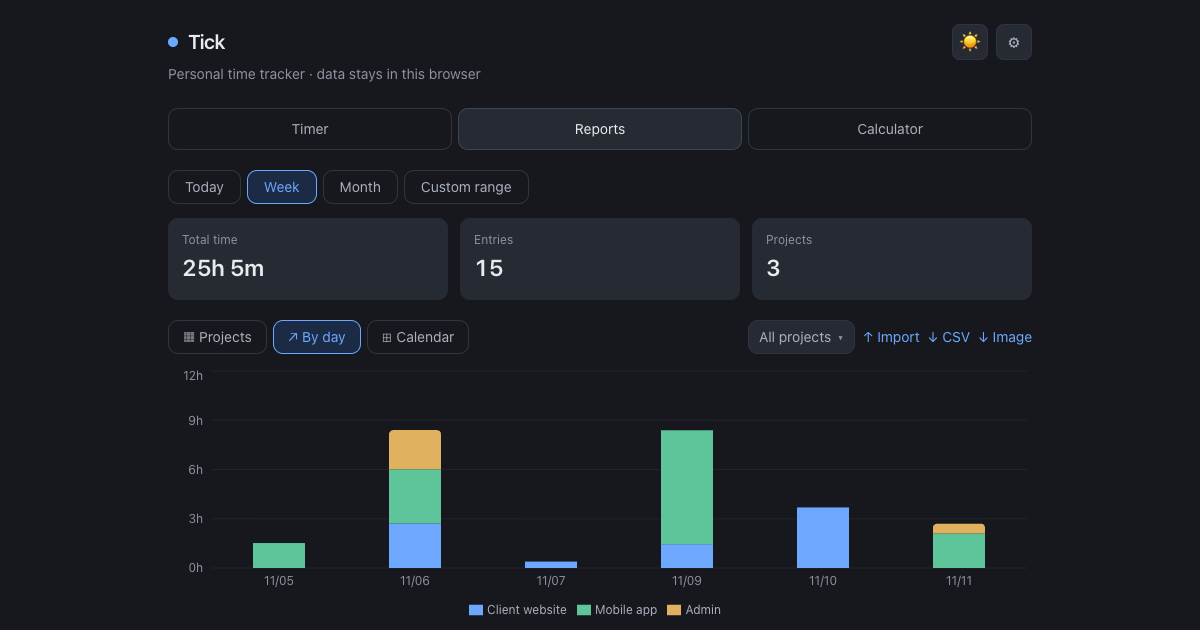
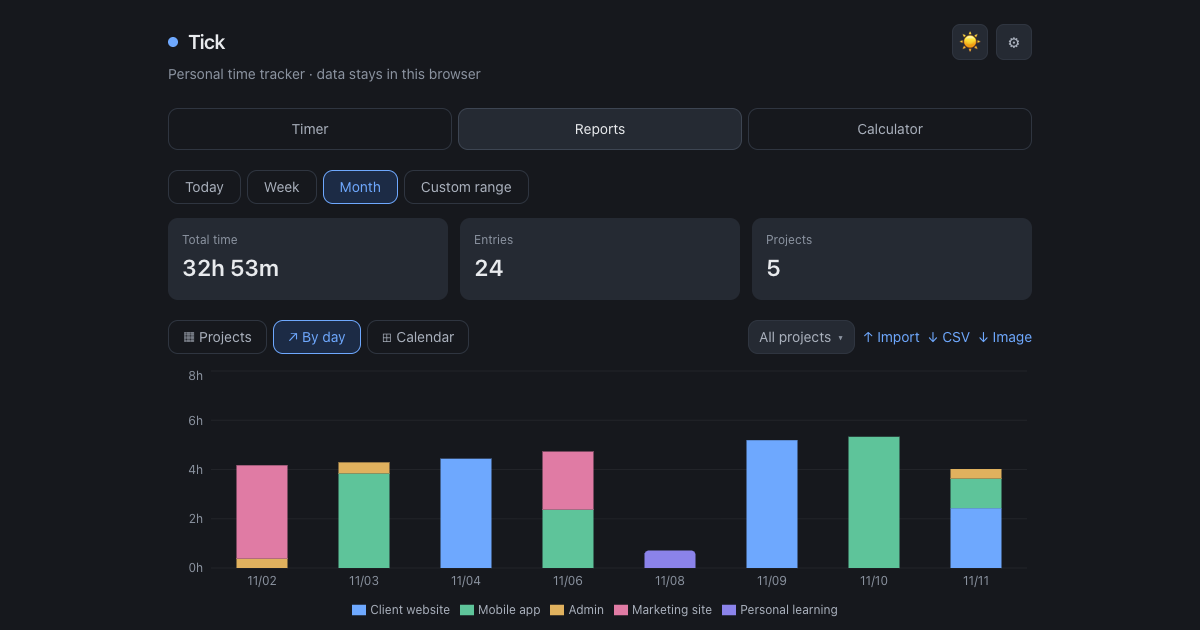
expand demo data to five projects and four months

diff --git a/src/utils/demo.ts b/src/utils/demo.ts
@@ -10,58 +10,182 @@ const PROJECTS: Project[] = [
   { id: 'demo-p1', name: 'Client website', color: PALETTE[0] },
   { id: 'demo-p2', name: 'Mobile app', color: PALETTE[1] },
   { id: 'demo-p3', name: 'Admin', color: PALETTE[2] },
+  { id: 'demo-p4', name: 'Marketing site', color: PALETTE[4] },
+  { id: 'demo-p5', name: 'Personal learning', color: PALETTE[3] },
 ]
 
-// [projectId, description, tags]
-const TASKS: [string, string, string[]][] = [
-  ['demo-p1', 'Homepage hero redesign', ['design']],
-  ['demo-p1', 'Fix checkout form validation', ['bug']],
-  ['demo-p1', 'Review pull requests', ['review']],
-  ['demo-p1', 'Blog page performance', ['frontend']],
-  ['demo-p2', 'Onboarding screens', ['design']],
-  ['demo-p2', 'Push notifications API', ['backend']],
-  ['demo-p2', 'Release 1.4 testing', ['qa']],
-  ['demo-p2', 'Offline sync bug', ['bug']],
-  ['demo-p3', 'Weekly planning', ['meeting']],
-  ['demo-p3', 'Invoices and email', []],
-  ['demo-p3', 'Client call', ['meeting']],
-]
+// Per-project task pool: [description, tags]
+const TASKS: Record<string, [string, string[]][]> = {
+  'demo-p1': [
+    ['Homepage hero redesign', ['design']],
+    ['Fix checkout form validation', ['bug']],
+    ['Review pull requests', ['review']],
+    ['Blog page performance', ['frontend', 'perf']],
+    ['Product filters on the catalog page', ['frontend']],
+    ['Accessibility pass on forms', ['a11y']],
+    ['Payment provider webhook', ['backend']],
+    ['Cart page polish after QA', ['frontend', 'qa']],
+    ['Search results pagination', ['frontend']],
+  ],
+  'demo-p2': [
+    ['Onboarding screens', ['design']],
+    ['Push notifications API', ['backend']],
+    ['Release testing', ['qa']],
+    ['Offline sync bug', ['bug']],
+    ['Settings screen refactor', ['refactor']],
+    ['Crash report triage', ['bug']],
+    ['Dark mode for the profile screen', ['frontend']],
+    ['App store screenshots', ['release']],
+  ],
+  'demo-p3': [
+    ['Weekly planning', ['meeting']],
+    ['Invoices and email', []],
+    ['Client call', ['meeting']],
+    ['Standup', ['meeting']],
+    ['Estimates for the next sprint', ['planning']],
+    ['1:1 with the team lead', ['meeting']],
+  ],
+  'demo-p4': [
+    ['Landing page copy', ['content']],
+    ['Pricing page layout', ['design']],
+    ['SEO meta tags and sitemap', ['seo']],
+    ['Case study page', ['content']],
+    ['Newsletter signup form', ['frontend']],
+    ['Analytics events setup', ['analytics']],
+  ],
+  'demo-p5': [
+    ['TypeScript generics course', ['learning']],
+    ['Reading: Designing Data-Intensive Applications', ['reading']],
+    ['Side project: CLI tool', ['side-project']],
+    ['Conference talk notes', ['learning']],
+    ['Rust exercises', ['learning']],
+  ],
+}
 
-// Small deterministic PRNG so the demo looks the same on every load.
+// Main work projects and how often each leads a day.
+const MAIN: [string, number][] = [['demo-p1', 0.4], ['demo-p2', 0.35], ['demo-p4', 0.25]]
+
+const MIN = 60_000
+const MONTHS_BACK = 3
+
+/** Small deterministic PRNG (LCG). */
 function rng(seed: number) {
+  let s = seed >>> 0
   return () => {
-    seed = (seed * 1664525 + 1013904223) % 4294967296
-    return seed / 4294967296
+    s = (s * 1664525 + 1013904223) >>> 0
+    return s / 4294967296
   }
 }
 
 /**
- * Realistic-looking week of work ending today: 2–4 entries per weekday,
- * a light Saturday, nothing on Sunday. Entries never end in the future.
+ * One generator per calendar date, so a given day always looks the same no
+ * matter when the demo is loaded — screenshots stay stable.
  */
-export function buildDemoData(now = Date.now()): { projects: Project[]; entries: Entry[] } {
-  const rand = rng(42)
-  const pick = <T,>(arr: T[]) => arr[Math.floor(rand() * arr.length)]!
+function dayRng(day: Date) {
+  const r = rng(day.getFullYear() * 10_000 + (day.getMonth() + 1) * 100 + day.getDate())
+  r(); r()  // warm up: neighbouring seeds start out correlated
+  return r
+}
+
+function weighted(r: () => number, items: [string, number][]): string {
+  let x = r() * items.reduce((s, [, w]) => s + w, 0)
+  for (const [v, w] of items) {
+    x -= w
+    if (x <= 0) return v
+  }
+  return items[items.length - 1]![0]
+}
+
+const sameDate = (a: Date, b: Date) =>
+  a.getFullYear() === b.getFullYear() && a.getMonth() === b.getMonth() && a.getDate() === b.getDate()
+
+/** A week of vacation (Mon–Fri) in the middle of the month two months back. */
+function vacationDays(now: Date): Date[] {
+  const d = new Date(now.getFullYear(), now.getMonth() - 2, 12)
+  while (d.getDay() !== 1) d.setDate(d.getDate() + 1)
+  return Array.from({ length: 5 }, (_, i) => new Date(d.getFullYear(), d.getMonth(), d.getDate() + i))
+}
+
+/** Planned [projectId, minutes] blocks for one day, in time order. */
+function planDay(day: Date, r: () => number): [string, number][] {
+  const dow = day.getDay()
+
+  // Weekends: rarely, and short — side projects or a bit of marketing work.
+  if (dow === 0 || dow === 6) {
+    if (r() > 0.15) return []
+    return [[r() < 0.7 ? 'demo-p5' : 'demo-p4', 30 + Math.floor(r() * 60)]]
+  }
+  if (r() < 0.04) return []  // the odd sick day
+
+  const target = 240 + Math.floor(r() * 240)  // 4–8 h
+  const busy = r() < 0.25                      // meeting-heavy, fragmented day
+  const main = weighted(r, MAIN)
+  const second = r() < 0.5 ? weighted(r, MAIN.filter(([p]) => p !== main)) : null
+
+  // Side blocks first (all inside the day's target), then split the rest
+  // of the time across the main work.
+  const admin = busy || r() < 0.45 ? 15 + Math.floor(r() * 30) : 0  // standup / email
+  const call = busy && r() < 0.6 ? 20 + Math.floor(r() * 25) : 0     // afternoon call
+  const learning = r() < 0.12 ? 30 + Math.floor(r() * 30) : 0        // after-work learning
+  const left = target - admin - call - learning
+
+  const blocks: [string, number][] = []
+  if (admin) blocks.push(['demo-p3', admin])
+  const n = busy ? 4 + Math.floor(r() * 3) : 2 + Math.floor(r() * 2)
+  const weights = Array.from({ length: n }, () => 0.5 + r())
+  const wSum = weights.reduce((s, w) => s + w, 0)
+  for (let i = 0; i < n; i++) {
+    const pid = second && r() < 0.35 ? second : main
+    blocks.push([pid, Math.round((left * weights[i]!) / wSum)])
+  }
+  if (call) blocks.push(['demo-p3', call])
+  if (learning) blocks.push(['demo-p5', learning])
+  return blocks
+}
+
+/**
+ * Realistic history from the first day of the month three months back up to
+ * now: 4–8 h weekdays, occasional short weekends, a vacation week, some
+ * fragmented days with 5+ entries. Entries never end in the future.
+ */
+export function buildDemoData(nowMs = Date.now()): { projects: Project[]; entries: Entry[] } {
+  const now = new Date(nowMs)
+  const vacation = vacationDays(now)
   const entries: Entry[] = []
-  const MIN = 60_000
 
-  for (let back = 6; back >= 0; back--) {
-    const day = new Date(now)
-    day.setDate(day.getDate() - back)
-    const dow = day.getDay()
-    if (dow === 0) continue
-    const count = dow === 6 ? 1 : 2 + Math.floor(rand() * 3)
+  for (
+    const day = new Date(now.getFullYear(), now.getMonth() - MONTHS_BACK, 1);
+    day <= now;
+    day.setDate(day.getDate() + 1)
+  ) {
+    if (vacation.some(v => sameDate(v, day))) continue
+    const r = dayRng(day)
+    const blocks = planDay(day, r)
+    if (!blocks.length) continue
 
-    // Work day starts between 9:00 and 10:00.
-    let t = new Date(day.getFullYear(), day.getMonth(), day.getDate(), 9, Math.floor(rand() * 60)).getTime()
-    for (let i = 0; i < count; i++) {
-      const [projectId, desc, tags] = pick(TASKS)
-      const duration = (20 + Math.floor(rand() * 150)) * MIN + Math.floor(rand() * 60) * 1000  // 20 min – 2h50
+    const weekend = day.getDay() === 0 || day.getDay() === 6
+    let t = new Date(day.getFullYear(), day.getMonth(), day.getDate(),
+      weekend ? 11 : 9, Math.floor(r() * (weekend ? 120 : 45))).getTime()
+    let lunchTaken = false
+    let lastDesc = ''
+    const key = `${day.getFullYear()}${String(day.getMonth() + 1).padStart(2, '0')}${String(day.getDate()).padStart(2, '0')}`
+
+    for (const [i, [projectId, minutes]] of blocks.entries()) {
+      // Pick a task, never repeating the previous entry's description.
+      const pool = TASKS[projectId]!.filter(([d]) => d !== lastDesc)
+      const [desc, tags] = pool[Math.floor(r() * pool.length)]!
+      lastDesc = desc
+
       const start = t
-      const end = start + duration
-      if (end > now) break
-      entries.push({ id: `demo-e${entries.length}`, desc, projectId, tags, start, end })
-      t = end + (10 + Math.floor(rand() * 50)) * MIN  // break between tasks
+      const end = start + minutes * MIN + Math.floor(r() * 60) * 1000
+      if (end > nowMs) break
+      entries.push({ id: `demo-e${key}-${i}`, desc, projectId, tags, start, end })
+
+      t = end + (5 + Math.floor(r() * 25)) * MIN
+      if (!lunchTaken && new Date(t).getHours() >= 12) {
+        t += (30 + Math.floor(r() * 30)) * MIN
+        lunchTaken = true
+      }
     }
   }
 

diff --git a/src/i18n/uk.ts b/src/i18n/uk.ts
@@ -145,7 +145,7 @@ const uk: Dict = {
   welcomeText: 'Запускай таймер, розкладай роботу за проєктами й тегами та дивись, куди пішли години, у звітах і календарі.',
   welcomePrivacy: 'Без акаунта й сервера — усе зберігається в цьому браузері.',
   welcomeDemo: 'Завантажити демо-дані',
-  welcomeDemoHint: 'Тиждень прикладів у 3 проєктах. Видаляються одним кліком.',
+  welcomeDemoHint: 'Кілька місяців прикладів у 5 проєктах. Видаляються одним кліком.',
   welcomeFresh: 'Почати з нуля',
   welcomeImport: 'або імпортувати резервну копію',
   demoBanner: 'Зараз показано демо-дані.',

diff --git a/src/i18n/en.ts b/src/i18n/en.ts
@@ -145,7 +145,7 @@ const en = {
   welcomeText: 'Start a timer, sort work into projects and tags, and see where the hours went in reports and a calendar.',
   welcomePrivacy: 'No account, no server — everything is saved in this browser.',
   welcomeDemo: 'Load demo data',
-  welcomeDemoHint: 'A week of sample entries in 3 projects. Remove them with one click.',
+  welcomeDemoHint: 'A few months of sample entries in 5 projects. Remove them with one click.',
   welcomeFresh: 'Start from scratch',
   welcomeImport: 'or import a backup',
   demoBanner: 'You are looking at demo data.',

diff --git a/index.html b/index.html
@@ -30,7 +30,7 @@
   <meta property="og:image" content="https://yuragets.github.io/tick/og-image.png" />
   <meta property="og:image:width" content="1200" />
   <meta property="og:image:height" content="630" />
-  <meta property="og:image:alt" content="Tick time tracker with a week of tracked entries" />
+  <meta property="og:image:alt" content="Tick time tracker showing tracked time per day, split by project" />
 
   <meta name="twitter:card" content="summary_large_image" />
   <meta name="twitter:title" content="Tick — personal time tracker" />
